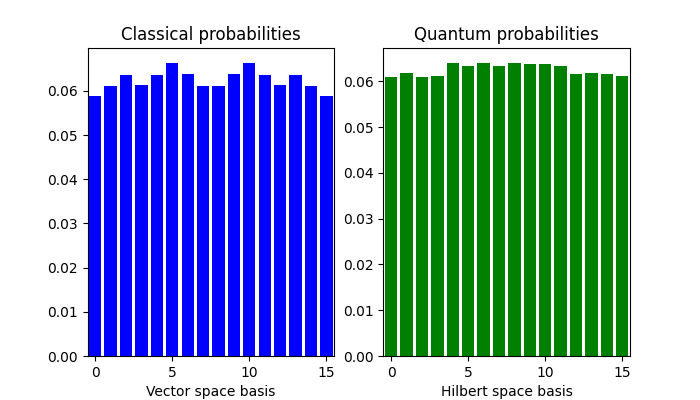
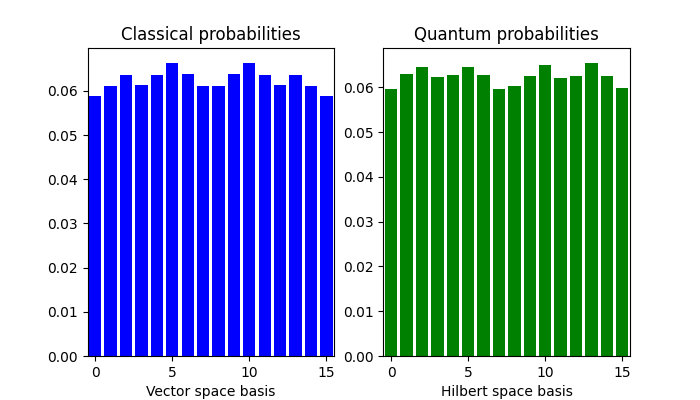
updates

diff --git a/drafts/vqls_test.py b/drafts/vqls_test.py
@@ -21,7 +21,7 @@ n_qubits = 4  # Number of system qubits.
 n_shots = 10 ** 6  # Number of quantum measurements.
 tot_qubits = n_qubits + 1  # Addition of an ancillary qubit.
 ancilla_idx = n_qubits  # Index of the ancillary qubit (last position).
-steps = 20  # Number of optimization steps
+steps = 50 # Number of optimization steps
 learning_rate = 2  # Learning rate
 q_delta = 0.001  # Initial spread of random quantum weights
 rng_seed = 0  # Seed for random number generator
